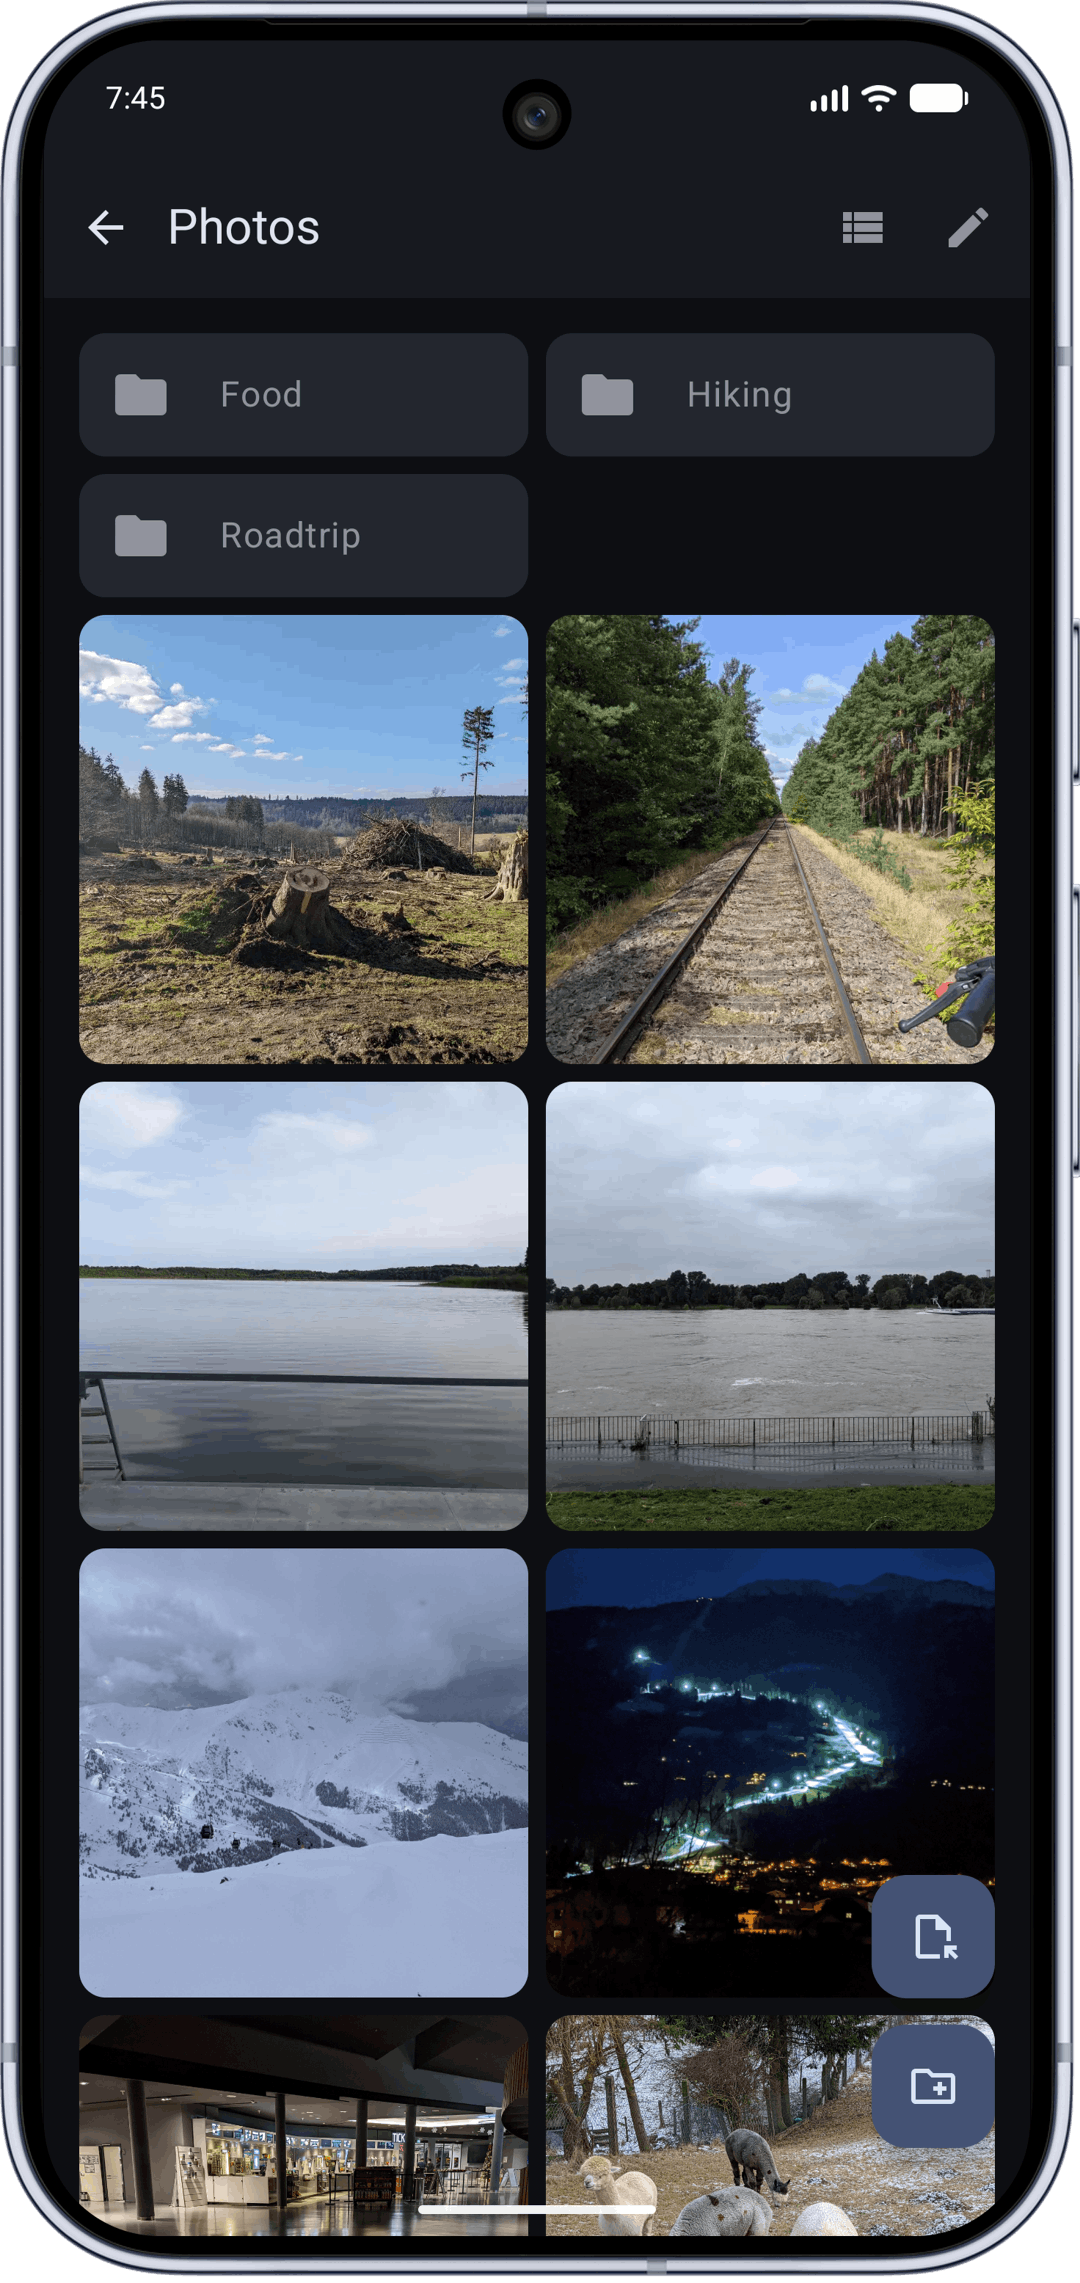
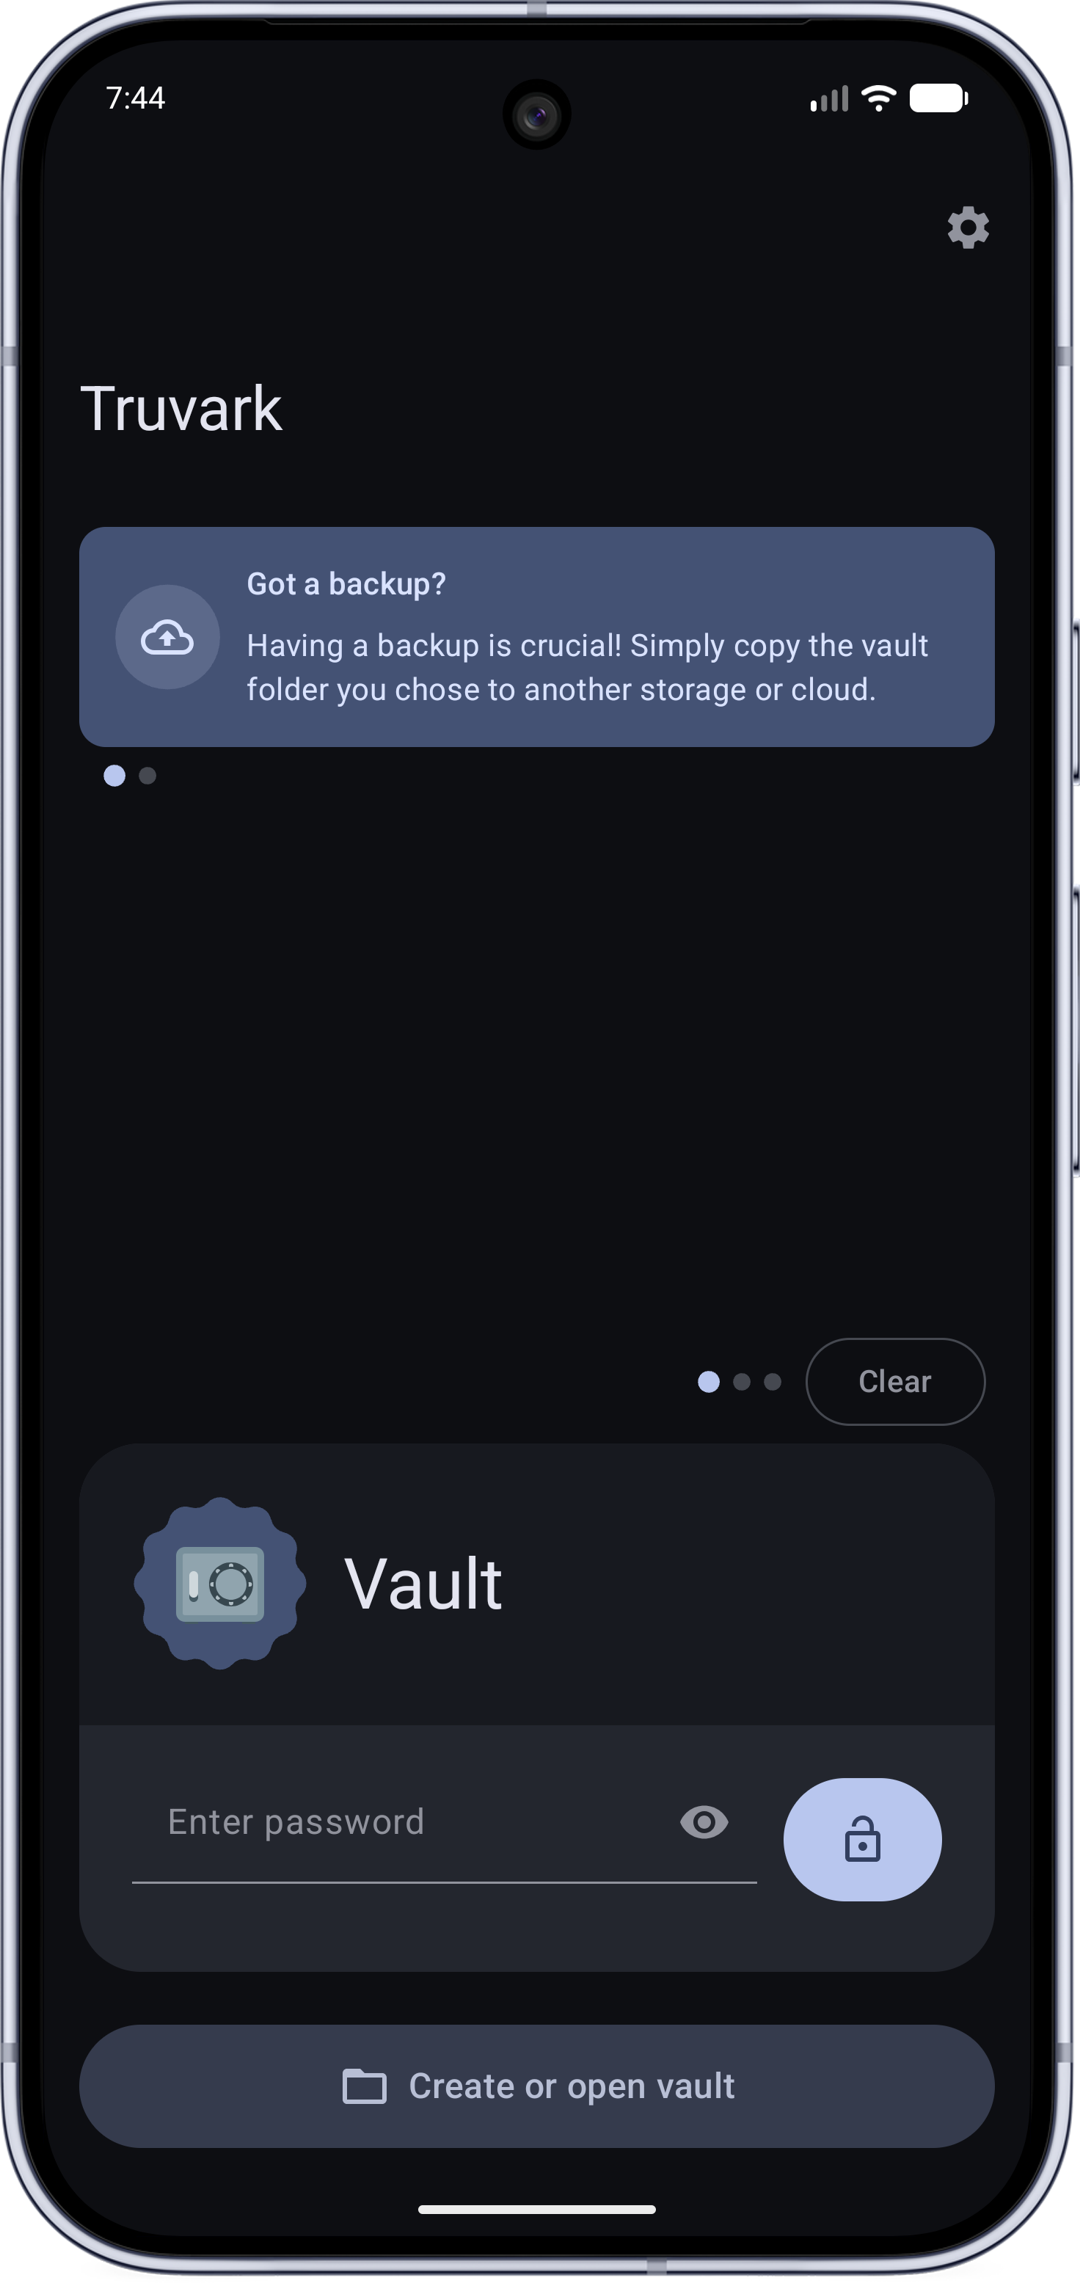
Add launcher screenshot

diff --git a/README.md b/README.md
@@ -32,9 +32,11 @@ As you can see, there are already plenty of reasons to give Truvark a try!
 </p>
 
 <p align="center">
-  <img src="fastlane/metadata/android/en-US/images/phoneScreenshots/1.png" width="40%"/>
+  <img src="fastlane/metadata/android/en-US/images/phoneScreenshots/1.png" width="30%"/>
   &nbsp;&nbsp;&nbsp;
-  <img src="fastlane/metadata/android/en-US/images/phoneScreenshots/2.png" width="40%"/>
+  <img src="fastlane/metadata/android/en-US/images/phoneScreenshots/2.png" width="30%"/>
+  &nbsp;&nbsp;&nbsp;
+  <img src="fastlane/metadata/android/en-US/images/phoneScreenshots/3.png" width="30%"/>
 </p>
 
 ## Documentation
